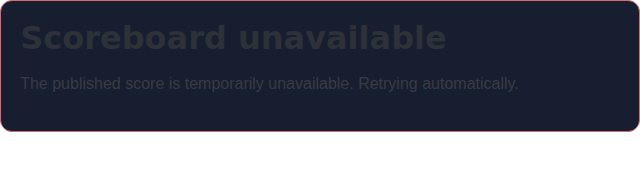
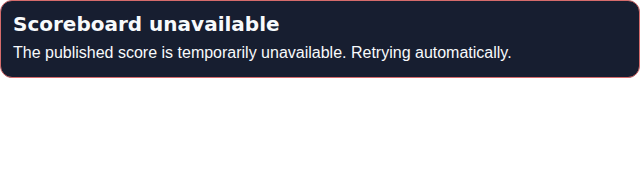
Improve OBS error notice contrast

diff --git a/frontend/tests/unit/SchoolPhase7JViews.spec.ts b/frontend/tests/unit/SchoolPhase7JViews.spec.ts
@@ -637,6 +637,32 @@ describe('Phase 7J School statistics and competition experience', () => {
     wrapper.unmount();
   });
 
+  it('uses the overlay-only high-contrast notice for initial failure and revoked publication', async () => {
+    vi.useFakeTimers();
+    vi.mocked(schoolApi.getPublicCompetitionScorecard)
+      .mockRejectedValueOnce(Object.assign(new Error('temporary'), { status: 503 }))
+      .mockRejectedValueOnce(Object.assign(new Error('revoked'), { status: 404 }));
+    const wrapper = mount(SchoolPublicScorecardView, {
+      props: {
+        overlay: true,
+        publicIdentifier: 'org_opaque',
+        competitionPublicKey: 'cmp_opaque',
+        scorecardPublicIdentifier: 'sc_opaque',
+      },
+    });
+
+    await flushPromises();
+    expect(wrapper.get('.public-scorecard--overlay .notice').text()).toContain('temporarily unavailable');
+    expect(wrapper.get('.public-scorecard--overlay .notice h1').text()).toBe('Scoreboard unavailable');
+
+    await vi.advanceTimersByTimeAsync(24_000);
+    await flushPromises();
+    expect(wrapper.get('.public-scorecard--overlay .notice').text()).toContain('not published or is no longer available');
+    expect(wrapper.get('.public-scorecard--overlay .notice h1').text()).toBe('Scoreboard unavailable');
+    expect(wrapper.text()).not.toContain('90/1');
+    wrapper.unmount();
+  });
+
   it('pauses overlay polling offline and refreshes when connectivity returns', async () => {
     vi.useFakeTimers();
     vi.mocked(schoolApi.getPublicCompetitionScorecard)

diff --git a/frontend/src/views/school/SchoolPublicScorecardView.vue b/frontend/src/views/school/SchoolPublicScorecardView.vue
@@ -424,6 +424,19 @@ onBeforeUnmount(() => {
 .freshness.stale { color: #ffd08a; }
 .obs-status p.freshness { margin: 0; font-size: 0.67rem; line-height: 1.15; }
 .obs-status .refresh-now { margin: 0; padding: 0.2rem 0.55rem; font-size: 0.75rem; }
+.public-scorecard--overlay .notice {
+  padding: 0.75rem;
+  color: #f8fafc;
+}
+.public-scorecard--overlay .notice h1,
+.public-scorecard--overlay .notice p {
+  color: #f8fafc;
+}
+.public-scorecard--overlay .notice h1 {
+  margin: 0 0 0.35rem;
+  font-size: 1.25rem;
+}
+.public-scorecard--overlay .notice p { margin: 0; }
 @media (max-width: 520px) {
   .obs-scoreboard { padding: 0.4rem; }
   .obs-teams { grid-template-columns: minmax(0, 1fr) auto minmax(0, 1fr); gap: 0.25rem; }

diff --git a/docs/live-video-safe-obs-overlay.md b/docs/live-video-safe-obs-overlay.md
@@ -24,14 +24,15 @@ Do not replace or edit the identifiers with a game ID, and do not use `/view/:ga
 
 ## Synthetic rendered checks
 
-The following Chromium screenshots use synthetic adult team/player names. Both source sizes were checked at the exact viewport dimensions; final-state card heights measured 166 px at 960 × 240 and 171 px at 640 × 180, and final, stale, offline, and unavailable states had no horizontal or vertical document overflow. The long names wrap within the team columns.
+The following Chromium screenshots use synthetic adult team/player names. Both source sizes were checked at the exact viewport dimensions; final-state card heights measured 166 px at 960 × 240 and 171 px at 640 × 180, and final, stale, offline, transient-error, and revoked states had no horizontal or vertical document overflow. The error card's computed text is `rgb(248, 250, 252)` over `rgb(23, 30, 48)`, a contrast ratio of 15.87:1 (above WCAG AA for body text and large headings). The error card measured 78 px high at both source sizes. The long names wrap within the team columns.
 
 | State | 960 × 240 | 640 × 180 |
 |---|---|---|
 | Final result | ![Final score at 960 by 240](images/obs-overlay-960x240-final.png) | ![Final score at 640 by 180](images/obs-overlay-640x180-final.png) |
 | Stale after transient failure | ![Stale score at 960 by 240](images/obs-overlay-960x240-stale.png) | ![Stale score at 640 by 180](images/obs-overlay-640x180-stale.png) |
 | Offline with last verified score | ![Offline score at 960 by 240](images/obs-overlay-960x240-offline.png) | ![Offline score at 640 by 180](images/obs-overlay-640x180-offline.png) |
-| Initial unavailable state | ![Unavailable overlay at 960 by 240](images/obs-overlay-960x240-unavailable.png) | ![Unavailable overlay at 640 by 180](images/obs-overlay-640x180-unavailable.png) |
+| Initial transient failure | ![Transient error overlay at 960 by 240](images/obs-overlay-960x240-unavailable.png) | ![Transient error overlay at 640 by 180](images/obs-overlay-640x180-unavailable.png) |
+| Publication revoked (404) | ![Revoked overlay at 960 by 240](images/obs-overlay-960x240-revoked.png) | ![Revoked overlay at 640 by 180](images/obs-overlay-640x180-revoked.png) |
 
 ## Synthetic, adult-only rehearsal
 
